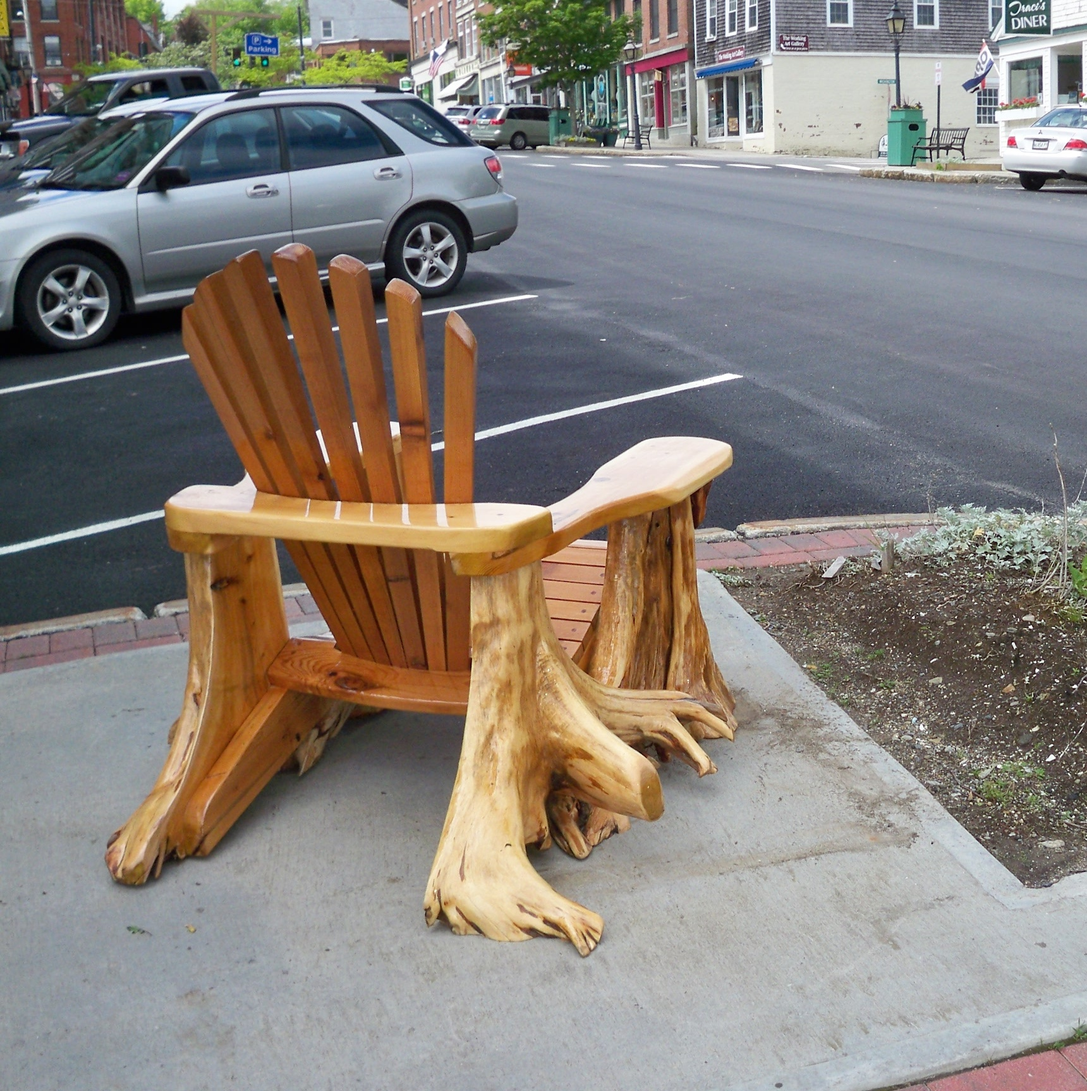
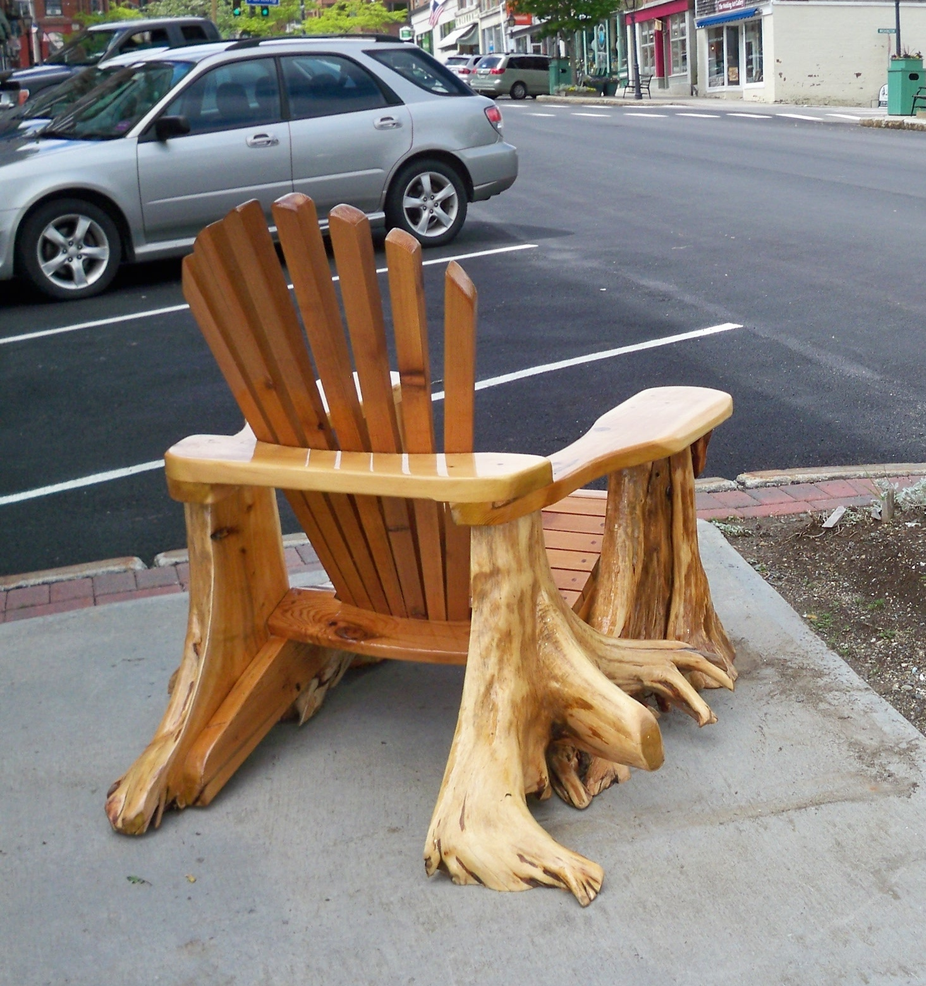
update photos

diff --git a/components/galleries/dataTypes/chairs.js b/components/galleries/dataTypes/chairs.js
@@ -1,5 +1,5 @@
 import doubleChair from '../../../src/assets/gallery/real_double_chair.jpg';
-import captainChair from '../../../src/assets/gallery/cropped/real_high_chair.jpg';
+import captainChair from '../../../src/assets/gallery/chairs/real_high_chair.jpg';
 import gaudiChair from '../../../src/assets/gallery/double_seat.png';
 import adirondack_chair_w_stool from '../../../src/assets/gallery/chairs/chair_w_stool.jpg';
 import outside_adirondack_chair from '../../../src/assets/gallery/chairs/Adirondack_chair.jpeg';
